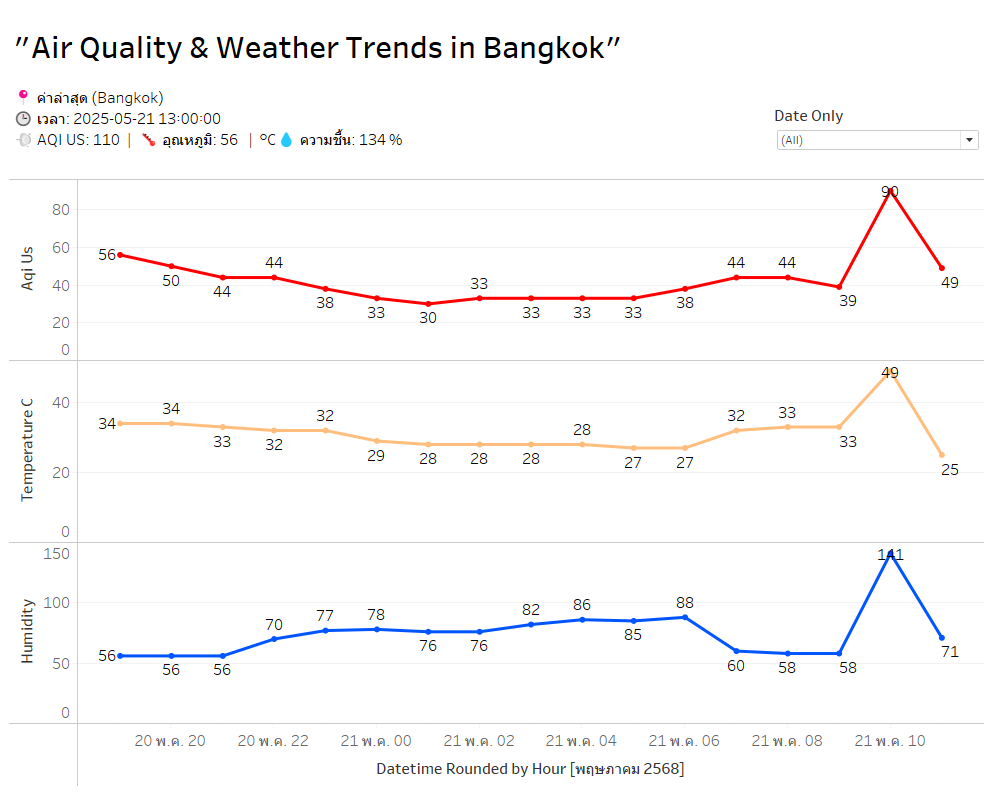
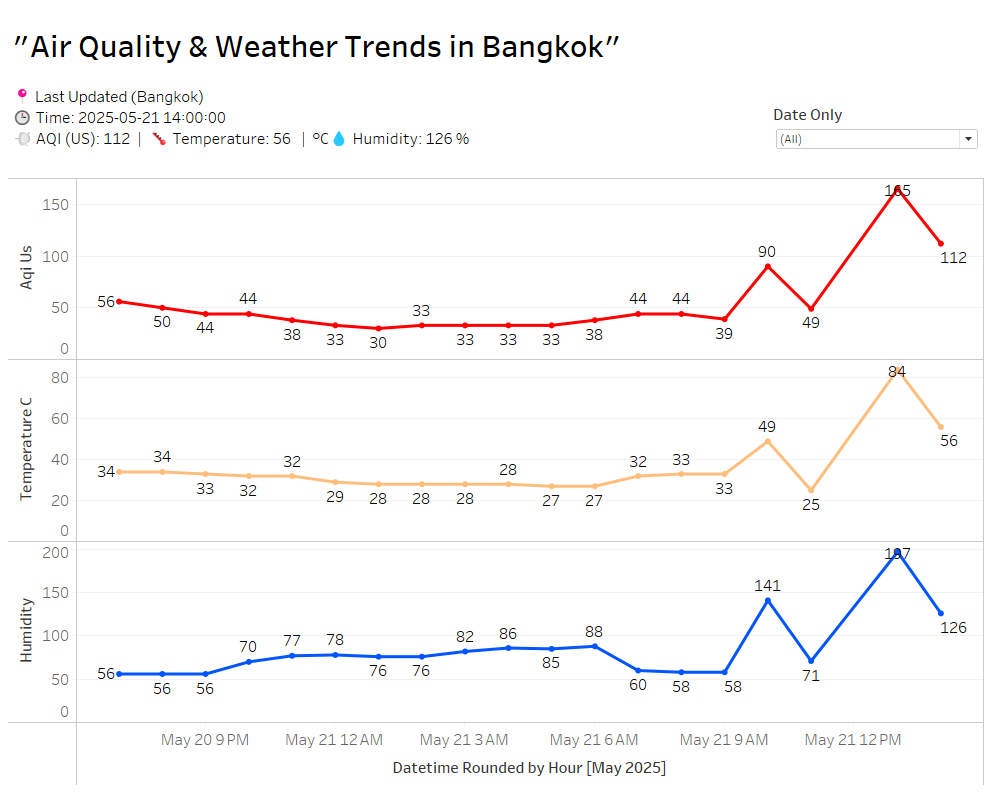
english graph

diff --git a/README.md b/README.md
@@ -108,8 +108,10 @@ docker restart airflow-scheduler
 
 This DAG fetches data from IQAir, transforms it, and stores it into PostgreSQL:
 
-- Airflow DAG graph and Gantt view
+- Airflow display 
+DAG graph
 ![DAG Graph](images/DAG-graph.png)
+Gantt view
 ![DAG Screenshot](images/DAG-gantt.png)
 
 - PostgreSQL : Example rows inserted from DAG run
